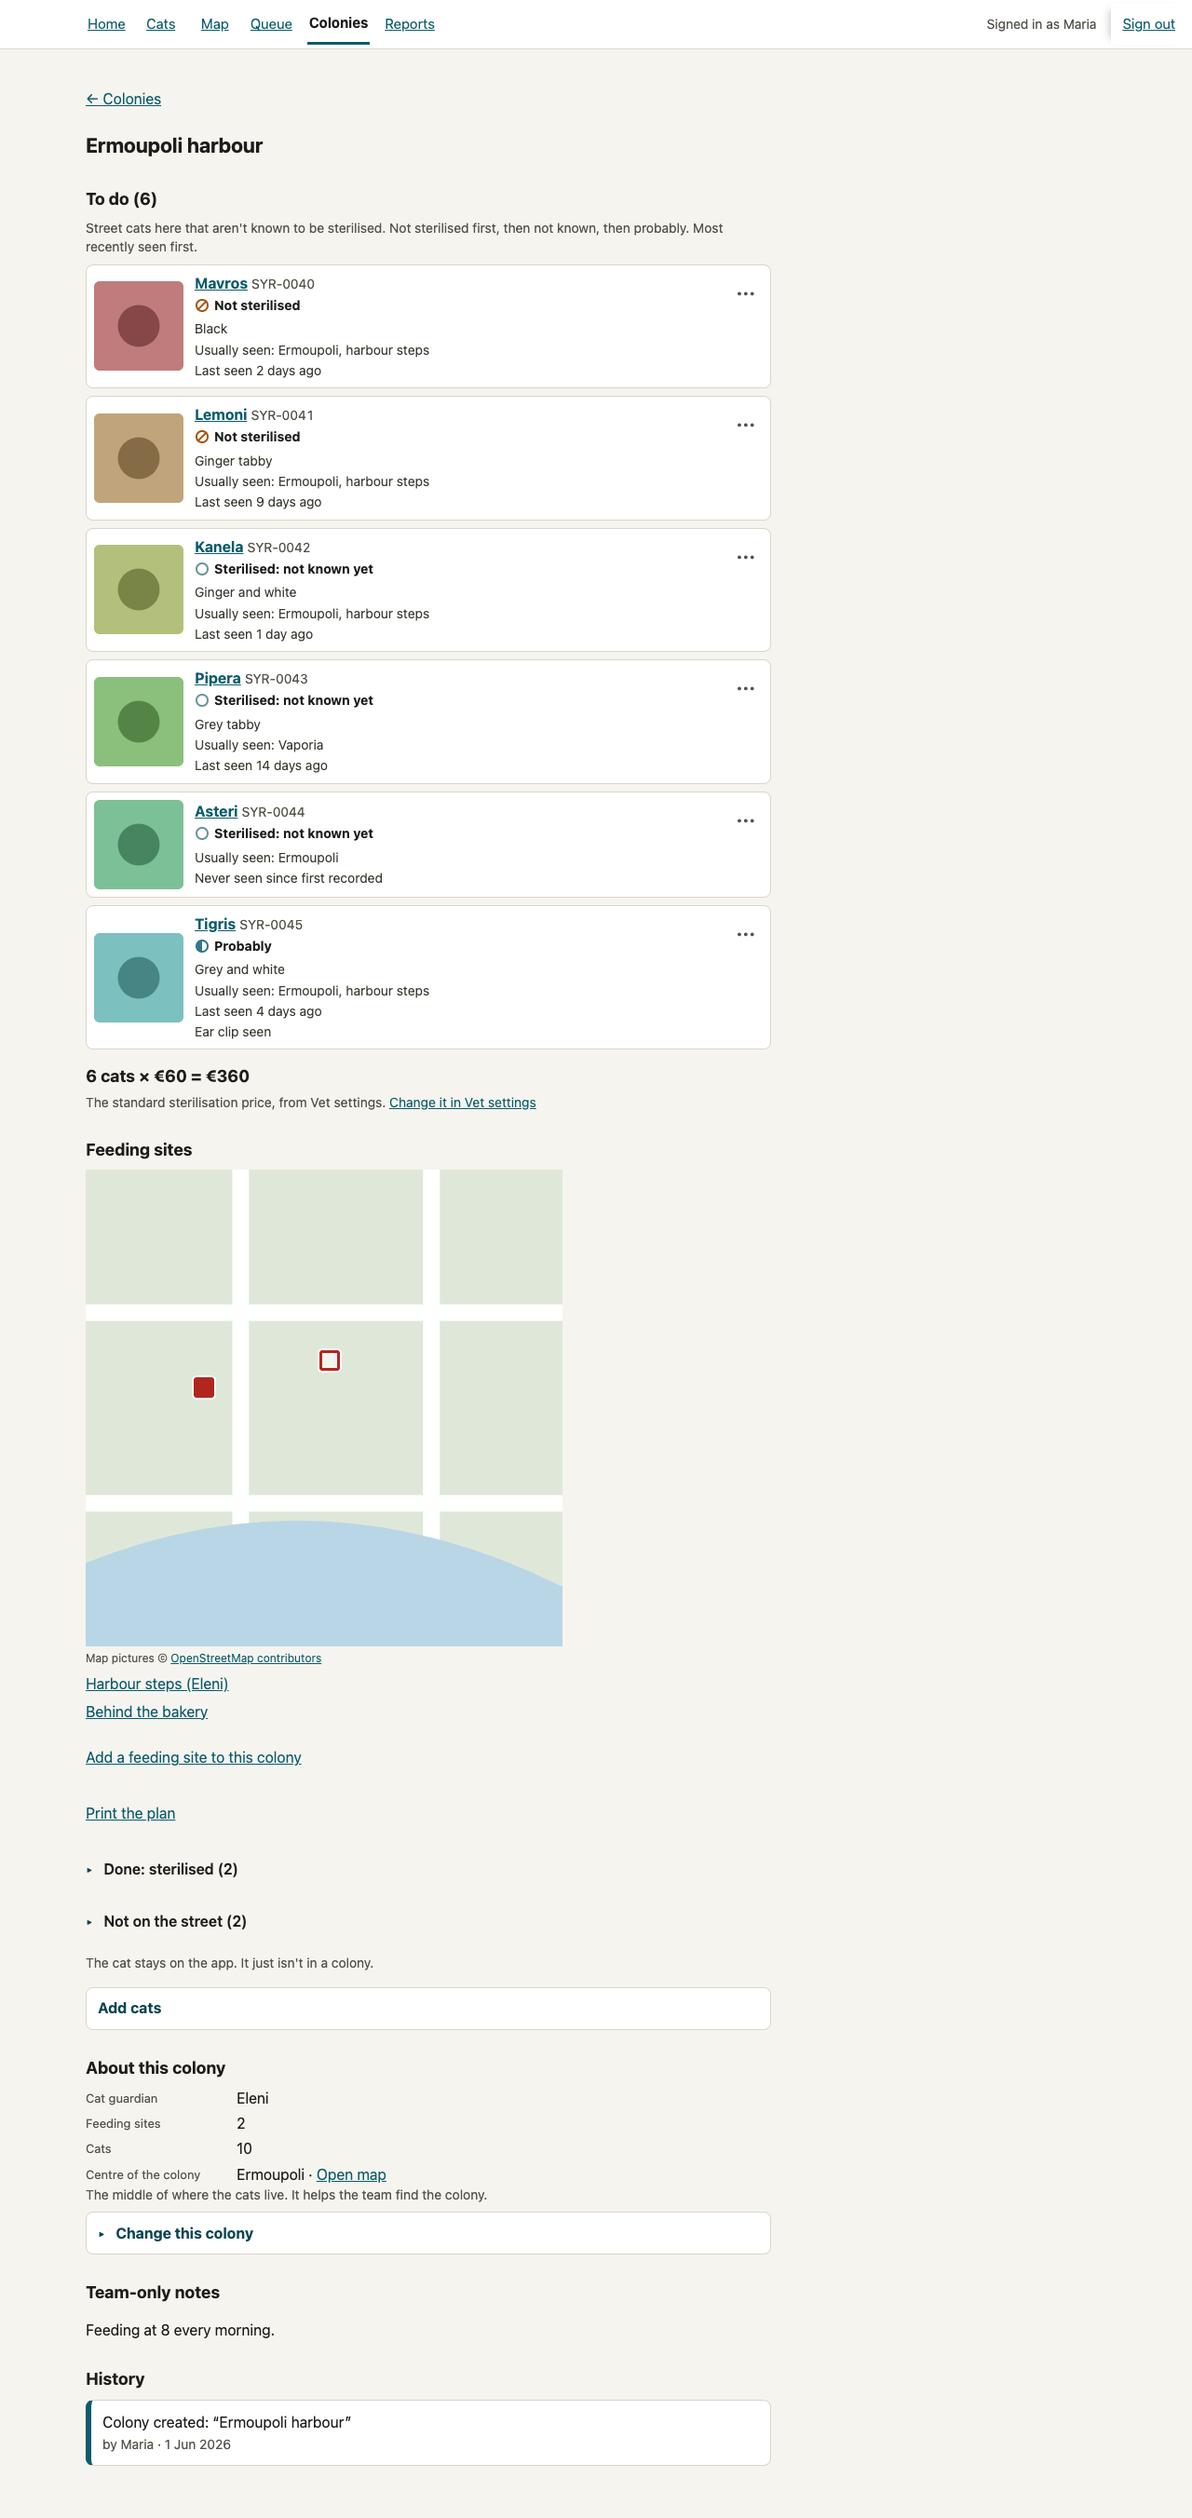
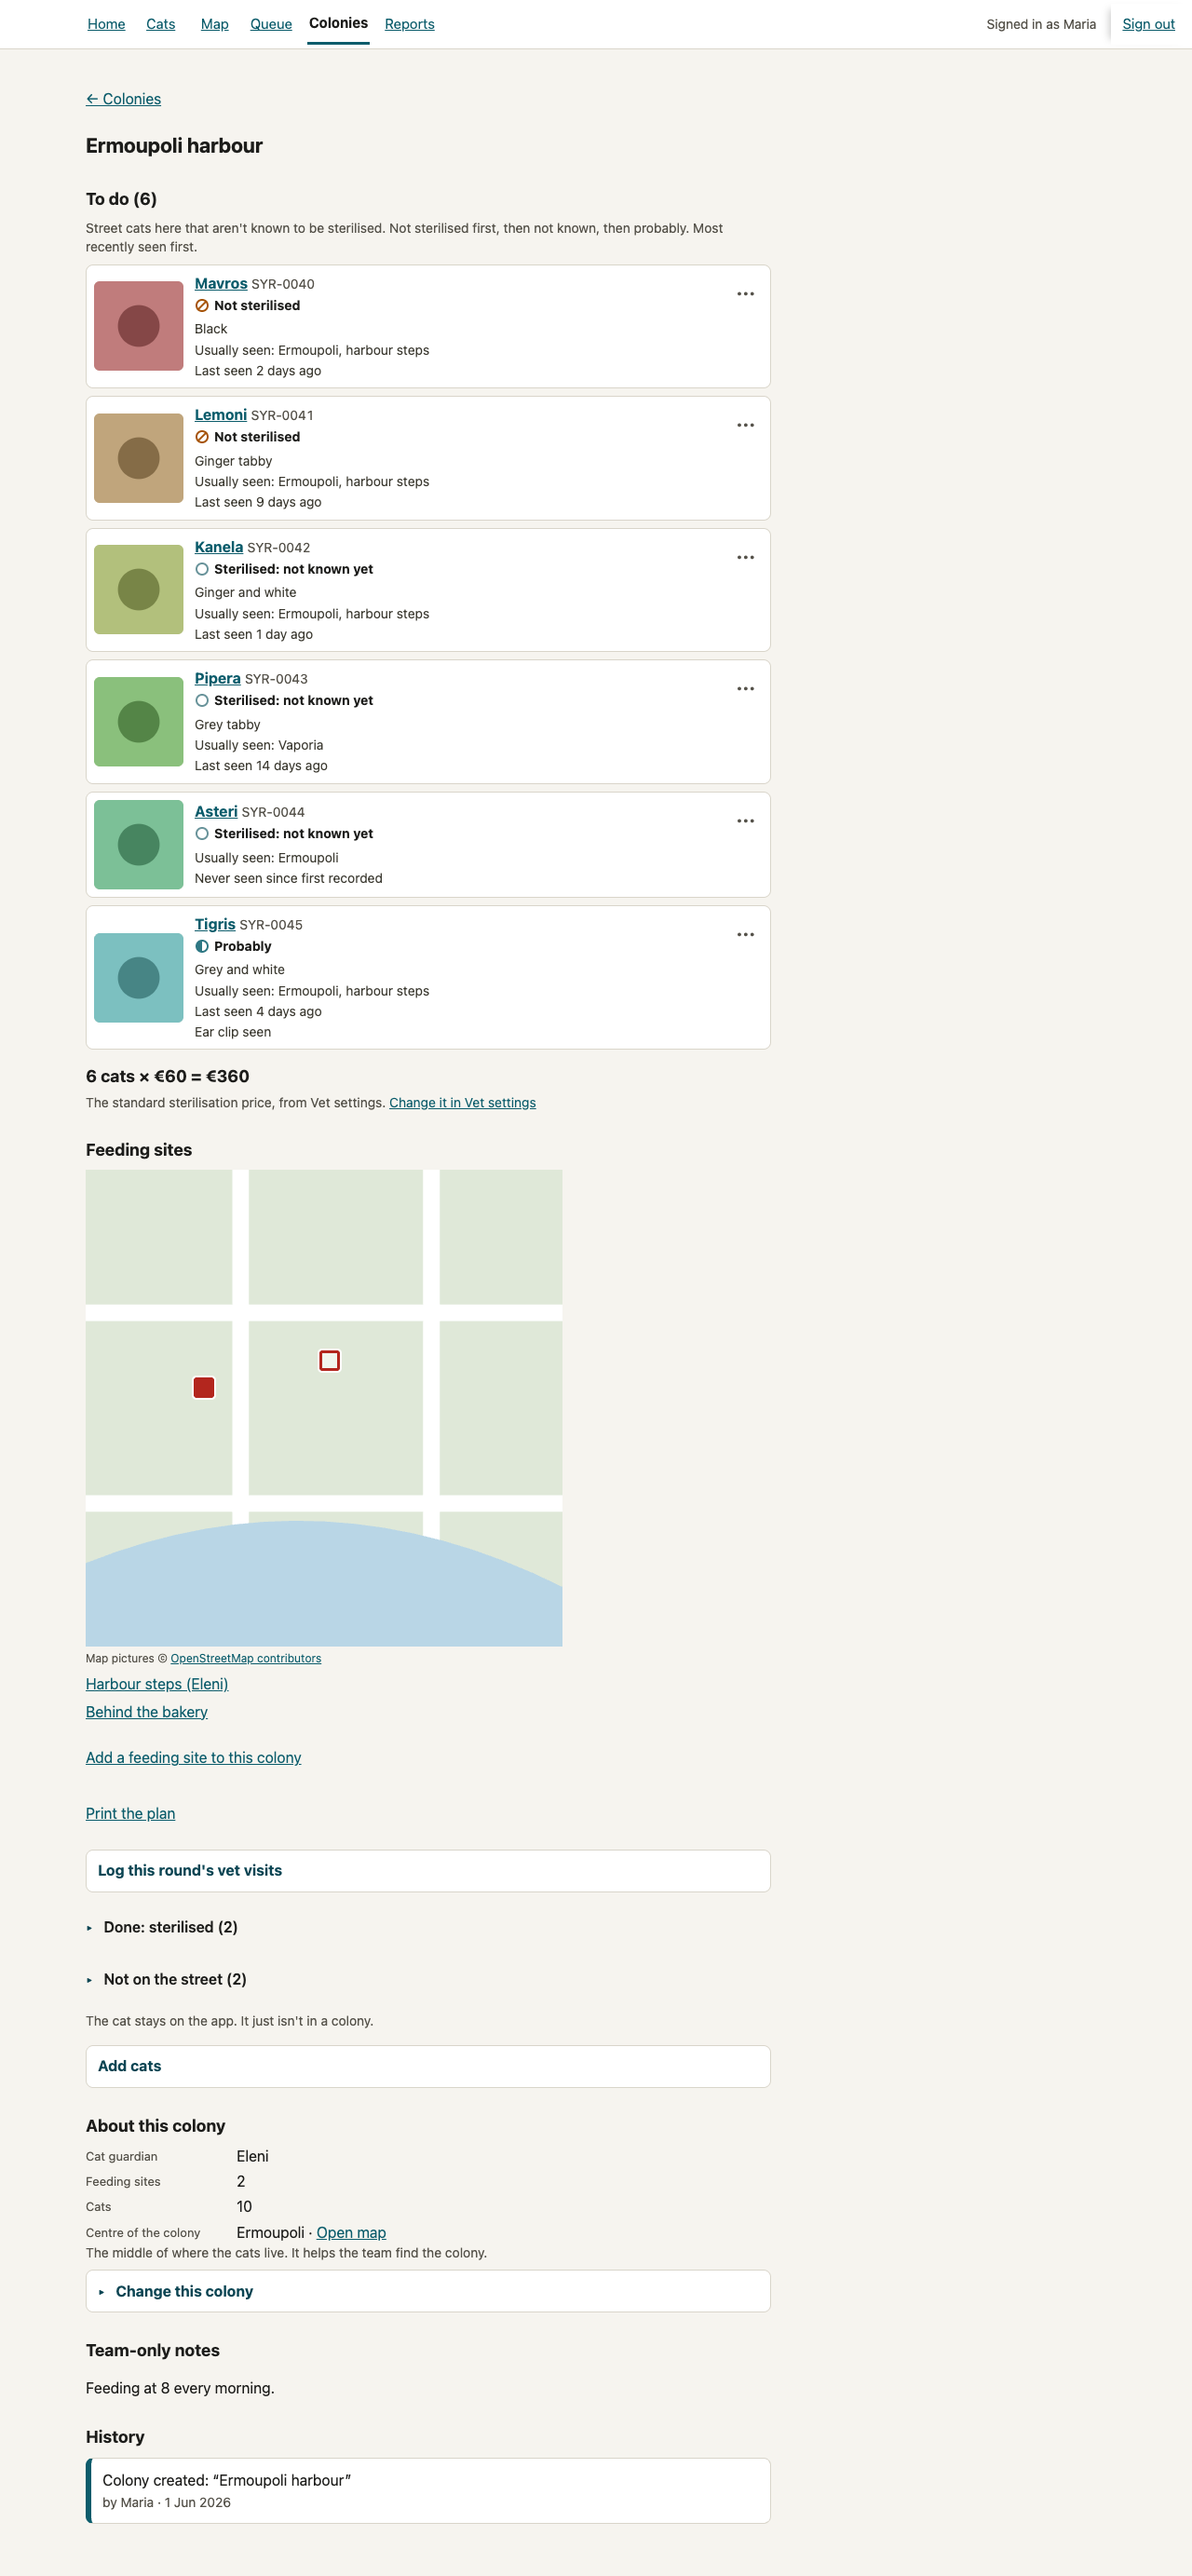
SYC-396 PR 3.2 (SYC-621): round rows as cards; screenshots of the round form

diff --git a/artifacts/api-server/src/lib/teamPages/layout.ts b/artifacts/api-server/src/lib/teamPages/layout.ts
@@ -464,6 +464,11 @@ span.pin{pointer-events:none}
 .estimate{font-size:18px;margin:16px 0 4px}
 details.planfold{margin:12px 0}
 details.planfold>summary{min-height:44px;cursor:pointer;font-weight:600}
+/* A round's cats (SYC-396 PR 3.2): one card each; a card with a problem gets a red edge, its words stay as they are. */
+li.roundcat{list-style:none;background:#fff;border:1px solid #d9d5ca;border-radius:8px;margin:8px 0;padding:8px 12px}
+li.roundcat.needs{border:2px solid #8c1d18}
+li.roundcat>label.catrow{border:0;margin:0;padding:0;background:transparent}
+@media (min-width:600px){fieldset.rounddid>label.choice{display:inline-flex;margin-right:20px}}
 .sr{position:absolute;width:1px;height:1px;overflow:hidden;clip:rect(0 0 0 0);white-space:nowrap}
 .attrib{margin:4px 0 8px;font-size:12px;color:#55524a}
 .mapmove{margin:8px 0 0}

diff --git a/artifacts/api-server/src/lib/teamPages/roundForm.ts b/artifacts/api-server/src/lib/teamPages/roundForm.ts
@@ -276,7 +276,7 @@ export function renderRoundForm(p: RoundPage): string {
       : `<span class="thumb nothumb">No photo</span>`;
     const opened = Object.keys(own).length > 0 || v.costEur !== "" || v.paidBy !== "" || v.treatedNote !== "";
     return (
-      `<li class="roundcat${Object.keys(own).length ? " bad" : ""}">` +
+      `<li class="roundcat${Object.keys(own).length ? " needs" : ""}">` +
       `<label class="catrow" for="${id}"><input type="checkbox" id="${id}" name="cat" value="${c.id}"${v.ticked ? " checked" : ""}>${thumb}` +
       `<span class="catinfo"><span><strong>${esc(c.name)}</strong> <span class="syr">${esc(c.syr)}</span></span>` +
       (c.mark ? `<span class="status">${markBadge(c.mark)}</span>` : "") +

diff --git a/CHECKPOINT.md b/CHECKPOINT.md
@@ -16,4 +16,4 @@ PR A = plan PR 2.3: draft #326 on claude/charming-ellis-652021. PR B on claude/s
 - [x] the guardian-visible words in strings en/el/fr
 - [x] the estimate sentence back on Vet settings
 - [x] screenshots at 390 and 1280 and a print preview; full suite; adversarial review; draft PR A
-- [ ] PR B: logRound, roundForm, /colonies/:id/round
+- [x] PR B built: logRound + test, roundForm, routes + test, screenshots. Next: full suite, review, draft PR
